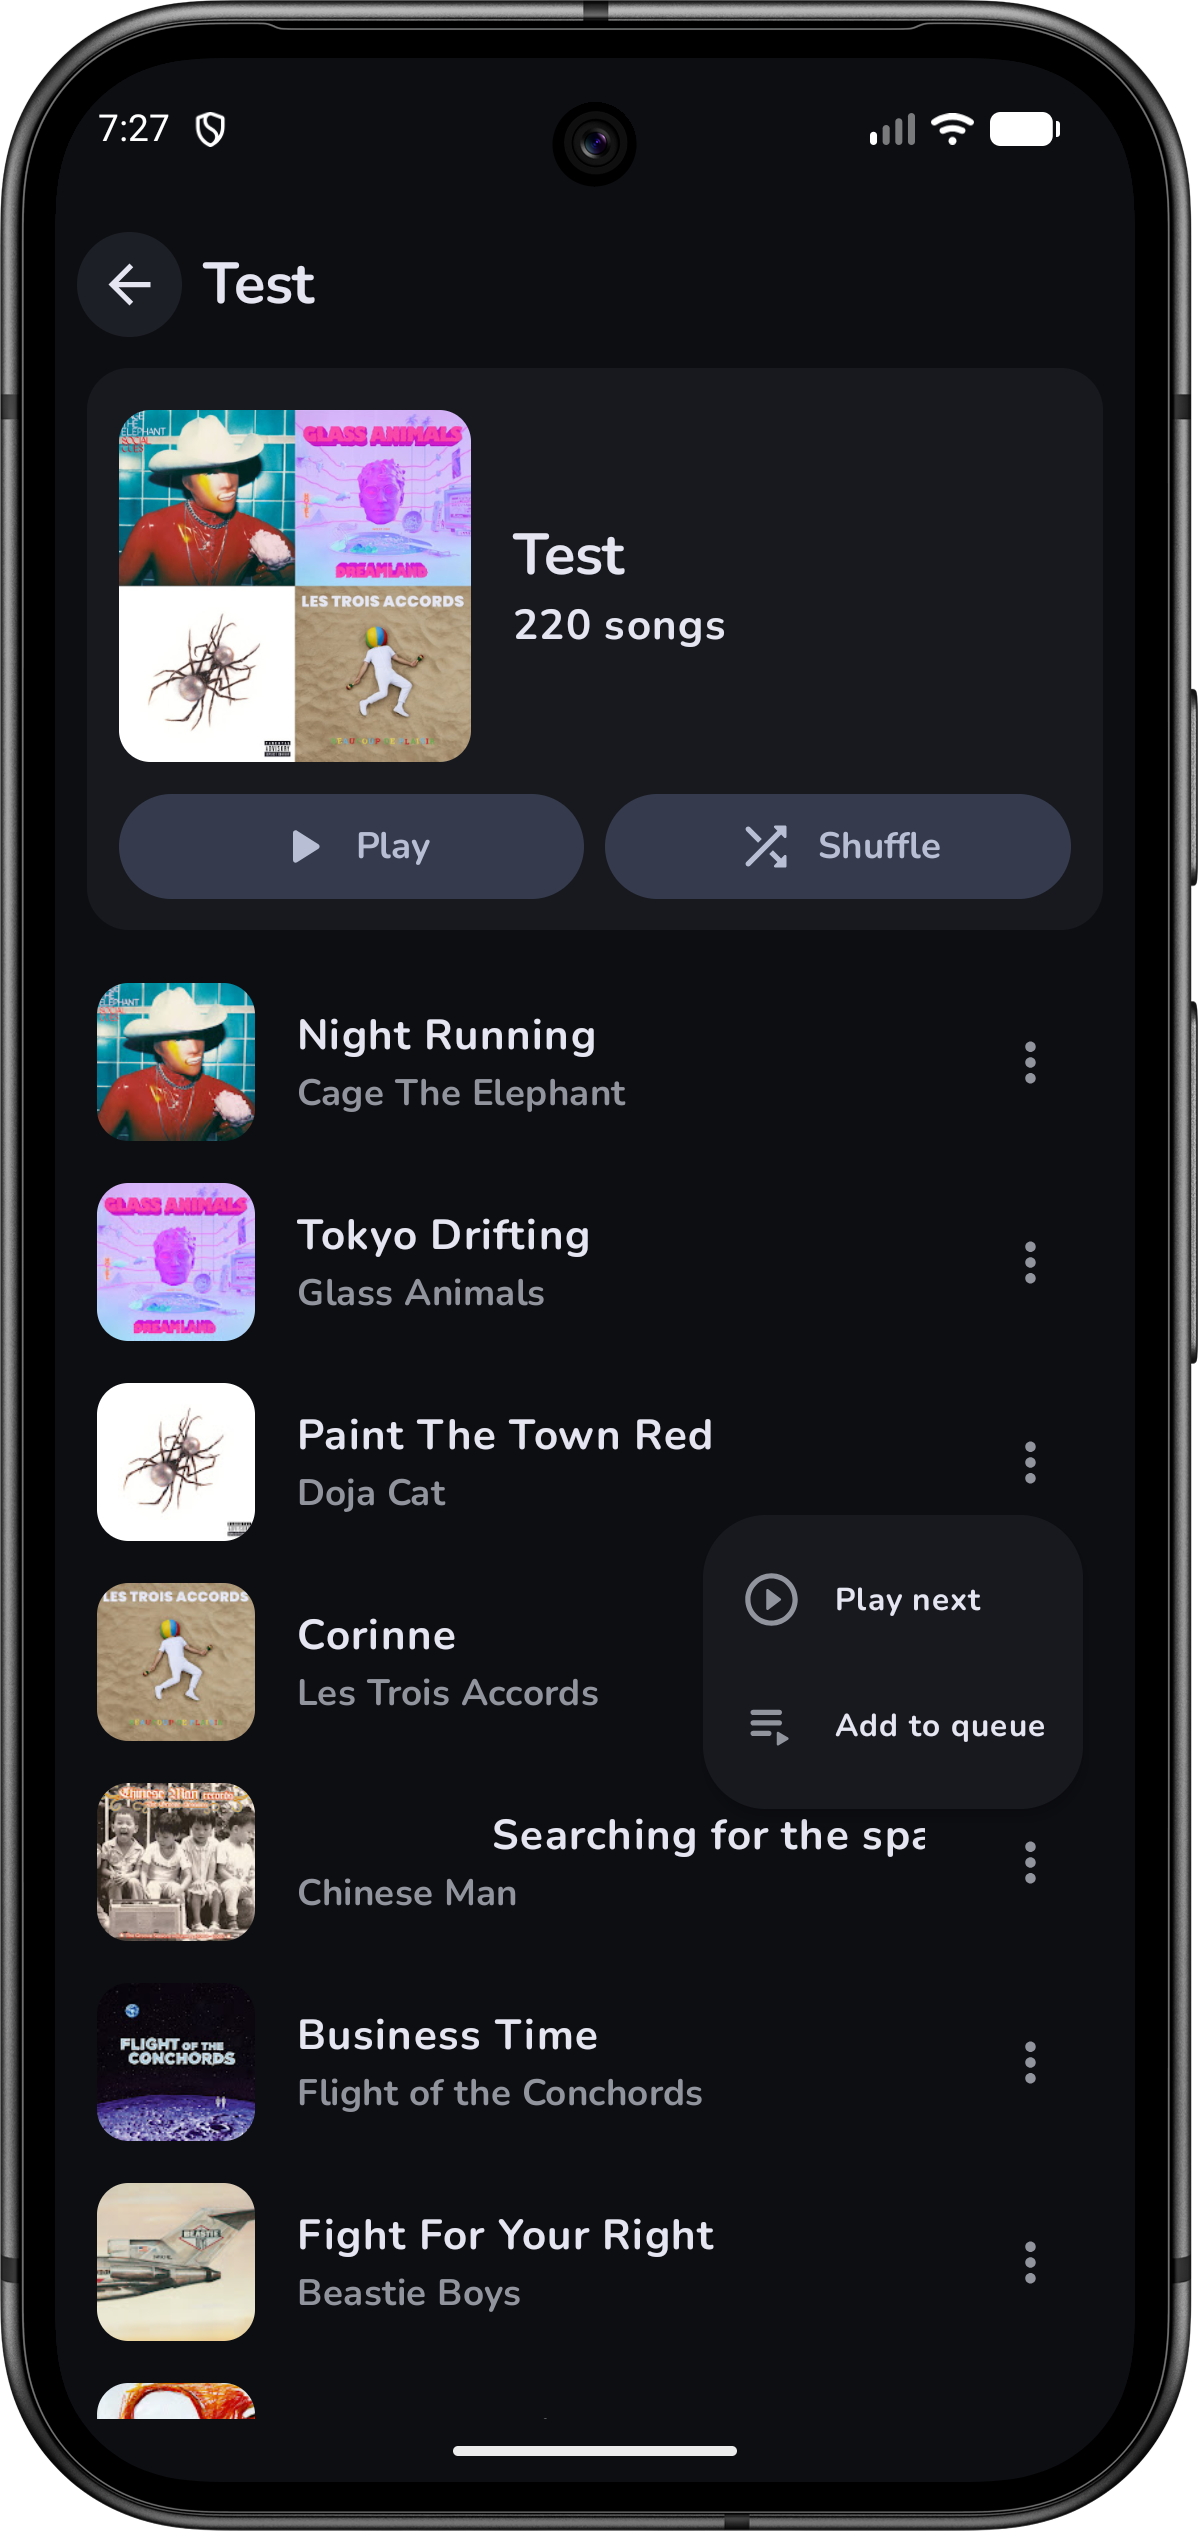
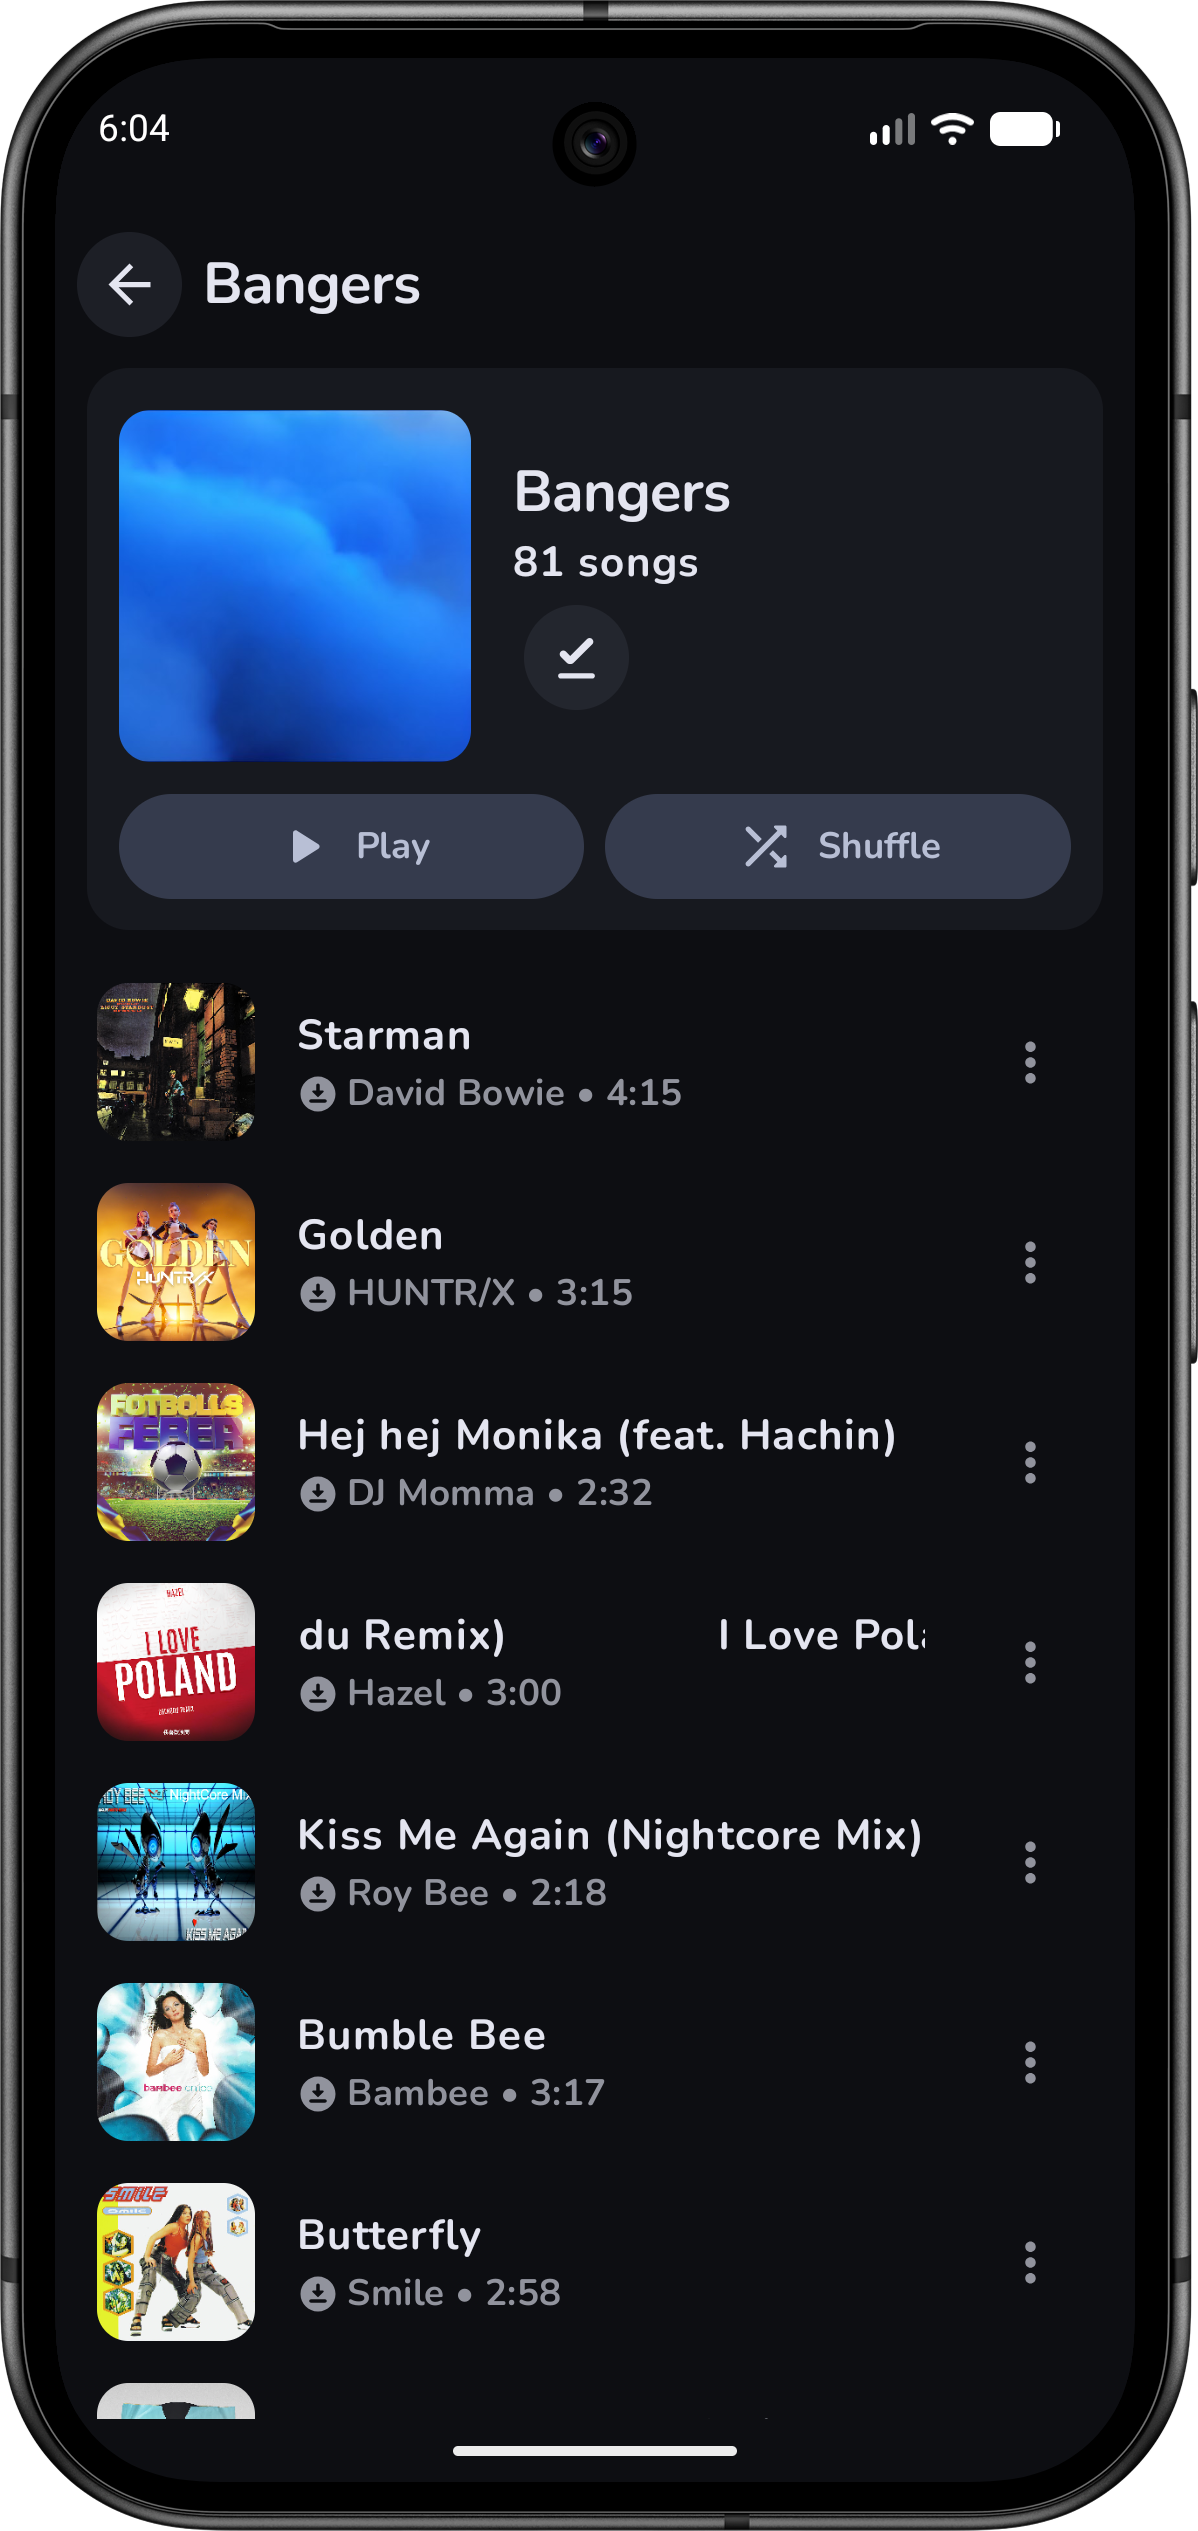
Fix a download leak, update images and fix a crash

diff --git a/app/src/main/java/ca/ilianokokoro/umihi/music/core/workers/PlaylistDownloadWorker.kt b/app/src/main/java/ca/ilianokokoro/umihi/music/core/workers/PlaylistDownloadWorker.kt
@@ -24,6 +24,7 @@ import okhttp3.OkHttpClient
 import okhttp3.Request
 import java.io.File
 import java.io.FileOutputStream
+import java.io.IOException
 import java.net.URL
 
 class PlaylistDownloadWorker(
@@ -167,51 +168,84 @@ class PlaylistDownloadWorker(
             UmihiHelper.getDownloadDirectory(context, Constants.Downloads.AUDIO_FILES_FOLDER)
         val outputFile = File(audioDir, "$youtubeId.webm")
 
-        if (outputFile.exists()) return@withContext outputFile.absolutePath
+        if (outputFile.exists()) {
+            return@withContext outputFile.absolutePath
+        }
 
         val url = YoutubeHelper.getSongPlayerUrl(appContext, youtubeId)
 
-        val headReq = Request.Builder()
-            .url(url)
-            .header("Range", "bytes=0-0")
-            .build()
+        val total = try {
+            val headReq = Request.Builder()
+                .url(url)
+                .header("Range", "bytes=0-0")
+                .build()
 
-        val headRes = client.newCall(headReq).execute()
-        val total = headRes.headers["Content-Range"]
-            ?.substringAfter("/")
-            ?.toLongOrNull()
-            ?: return@withContext null
+            client.newCall(headReq).execute().use { headRes ->
+                if (!headRes.isSuccessful) {
+                    return@withContext null
+                }
+                headRes.headers["Content-Range"]
+                    ?.substringAfter("/")
+                    ?.toLongOrNull()
+                    ?: return@withContext null
+            }
+        } catch (e: Exception) {
+            printe("Failed to get content length: ${e.message}")
+            return@withContext null
+        }
 
         val chunkSize = total / connections
         val tempFiles = mutableListOf<File>()
 
-        (0 until connections).map { i ->
-            async {
-                val start = i * chunkSize
-                val end = if (i == connections - 1) total - 1 else (start + chunkSize - 1)
-                val temp = File(audioDir, "$youtubeId.part$i")
+        try {
+            (0 until connections).map { i ->
+                async {
+                    val start = i * chunkSize
+                    val end = if (i == connections - 1) total - 1 else (start + chunkSize - 1)
+                    val temp = File(audioDir, "$youtubeId.part$i")
 
-                val req = Request.Builder()
-                    .url(url)
-                    .header("Range", "bytes=$start-$end")
-                    .header("User-Agent", Constants.YoutubeApi.USER_AGENT)
-                    .build()
+                    try {
+                        val req = Request.Builder()
+                            .url(url)
+                            .header("Range", "bytes=$start-$end")
+                            .header("User-Agent", Constants.YoutubeApi.USER_AGENT)
+                            .build()
 
-                client.newCall(req).execute().body?.byteStream().use { input ->
-                    FileOutputStream(temp).use { output -> input?.copyTo(output) }
+                        client.newCall(req).execute().use { response ->
+                            if (!response.isSuccessful) {
+                                throw IOException("Failed to download chunk $i: ${response.code}")
+                            }
+
+                            response.body?.byteStream()?.use { input ->
+                                FileOutputStream(temp).use { output ->
+                                    input.copyTo(output)
+                                }
+                            } ?: throw IOException("Empty response body for chunk $i")
+                        }
+
+                        temp
+                    } catch (e: Exception) {
+                        temp.delete()
+                        throw e
+                    }
                 }
-                tempFiles += temp
-            }
-        }.awaitAll()
+            }.awaitAll().also { tempFiles.addAll(it) }
 
-        FileOutputStream(outputFile).use { out ->
-            tempFiles.sortedBy { it.name }.forEach { part ->
-                part.inputStream().use { it.copyTo(out) }
-                part.delete()
+            FileOutputStream(outputFile).use { out ->
+                tempFiles.sortedBy { it.name }.forEach { part ->
+                    part.inputStream().use { it.copyTo(out) }
+                    part.delete()
+                }
             }
+
+            return@withContext outputFile.absolutePath
+
+        } catch (e: Exception) {
+            printe("Download failed for $youtubeId: ${e.message}")
+            tempFiles.forEach { it.delete() }
+            outputFile.delete()
+            return@withContext null
         }
-
-        return@withContext outputFile.absolutePath
     }
 
     companion object {

diff --git a/app/src/main/java/ca/ilianokokoro/umihi/music/ui/screens/playlist/PlaylistViewModel.kt b/app/src/main/java/ca/ilianokokoro/umihi/music/ui/screens/playlist/PlaylistViewModel.kt
@@ -51,7 +51,7 @@ class PlaylistViewModel(playlistInfo: PlaylistInfo, player: Player, application:
     }
 
     suspend fun observerDownloadJob() {
-        val playlist = (_uiState.value.screenState as ScreenState.Success).playlist
+        val playlist = getPlaylist() ?: return
         val existingJobFlow = downloadRepository.getExistingJobFlow(playlist)
 
         existingJobFlow.collect { workInfos ->
@@ -108,9 +108,8 @@ class PlaylistViewModel(playlistInfo: PlaylistInfo, player: Player, application:
     }
 
     fun playPlaylist(startingSong: Song? = null) {
+        val playlist = getPlaylist() ?: return
         viewModelScope.launch {
-
-            val playlist = (_uiState.value.screenState as ScreenState.Success).playlist
             _player.playPlaylist(
                 playlist,
                 startingSong?.let { playlist.songs.indexOf(it) } ?: 0
@@ -119,15 +118,15 @@ class PlaylistViewModel(playlistInfo: PlaylistInfo, player: Player, application:
     }
 
     fun shufflePlaylist() {
+        val playlist = getPlaylist() ?: return
         viewModelScope.launch {
-            _player.shufflePlaylist((_uiState.value.screenState as ScreenState.Success).playlist)
+            _player.shufflePlaylist(playlist)
         }
     }
 
     fun downloadPlaylist() {
+        val playlist = getPlaylist() ?: return
         viewModelScope.launch {
-            val playlist = (_uiState.value.screenState as ScreenState.Success).playlist
-
             if (!playlist.downloaded) {
                 downloadRepository.download(playlist)
                 observerDownloadJob()
@@ -194,6 +193,13 @@ class PlaylistViewModel(playlistInfo: PlaylistInfo, player: Player, application:
 
     }
 
+    private fun getPlaylist(): Playlist? {
+        val screenState = _uiState.value.screenState
+        if (screenState !is ScreenState.Success) {
+            return null
+        }
+        return screenState.playlist
+    }
 
     companion object {
         fun Factory(

diff --git a/app/src/main/java/ca/ilianokokoro/umihi/music/services/PlaybackService.kt b/app/src/main/java/ca/ilianokokoro/umihi/music/services/PlaybackService.kt
@@ -106,10 +106,8 @@ class PlaybackService : MediaSessionService() {
 
     override fun onTaskRemoved(rootIntent: android.content.Intent?) {
         val player = mediaSession?.player
-        if (player != null) {
-            if (!player.playWhenReady || player.mediaItemCount == 0) {
-                stopSelf()
-            }
+        if (player == null || player.mediaItemCount == 0) {
+            pauseAllPlayersAndStopSelf()
         }
     }
 
